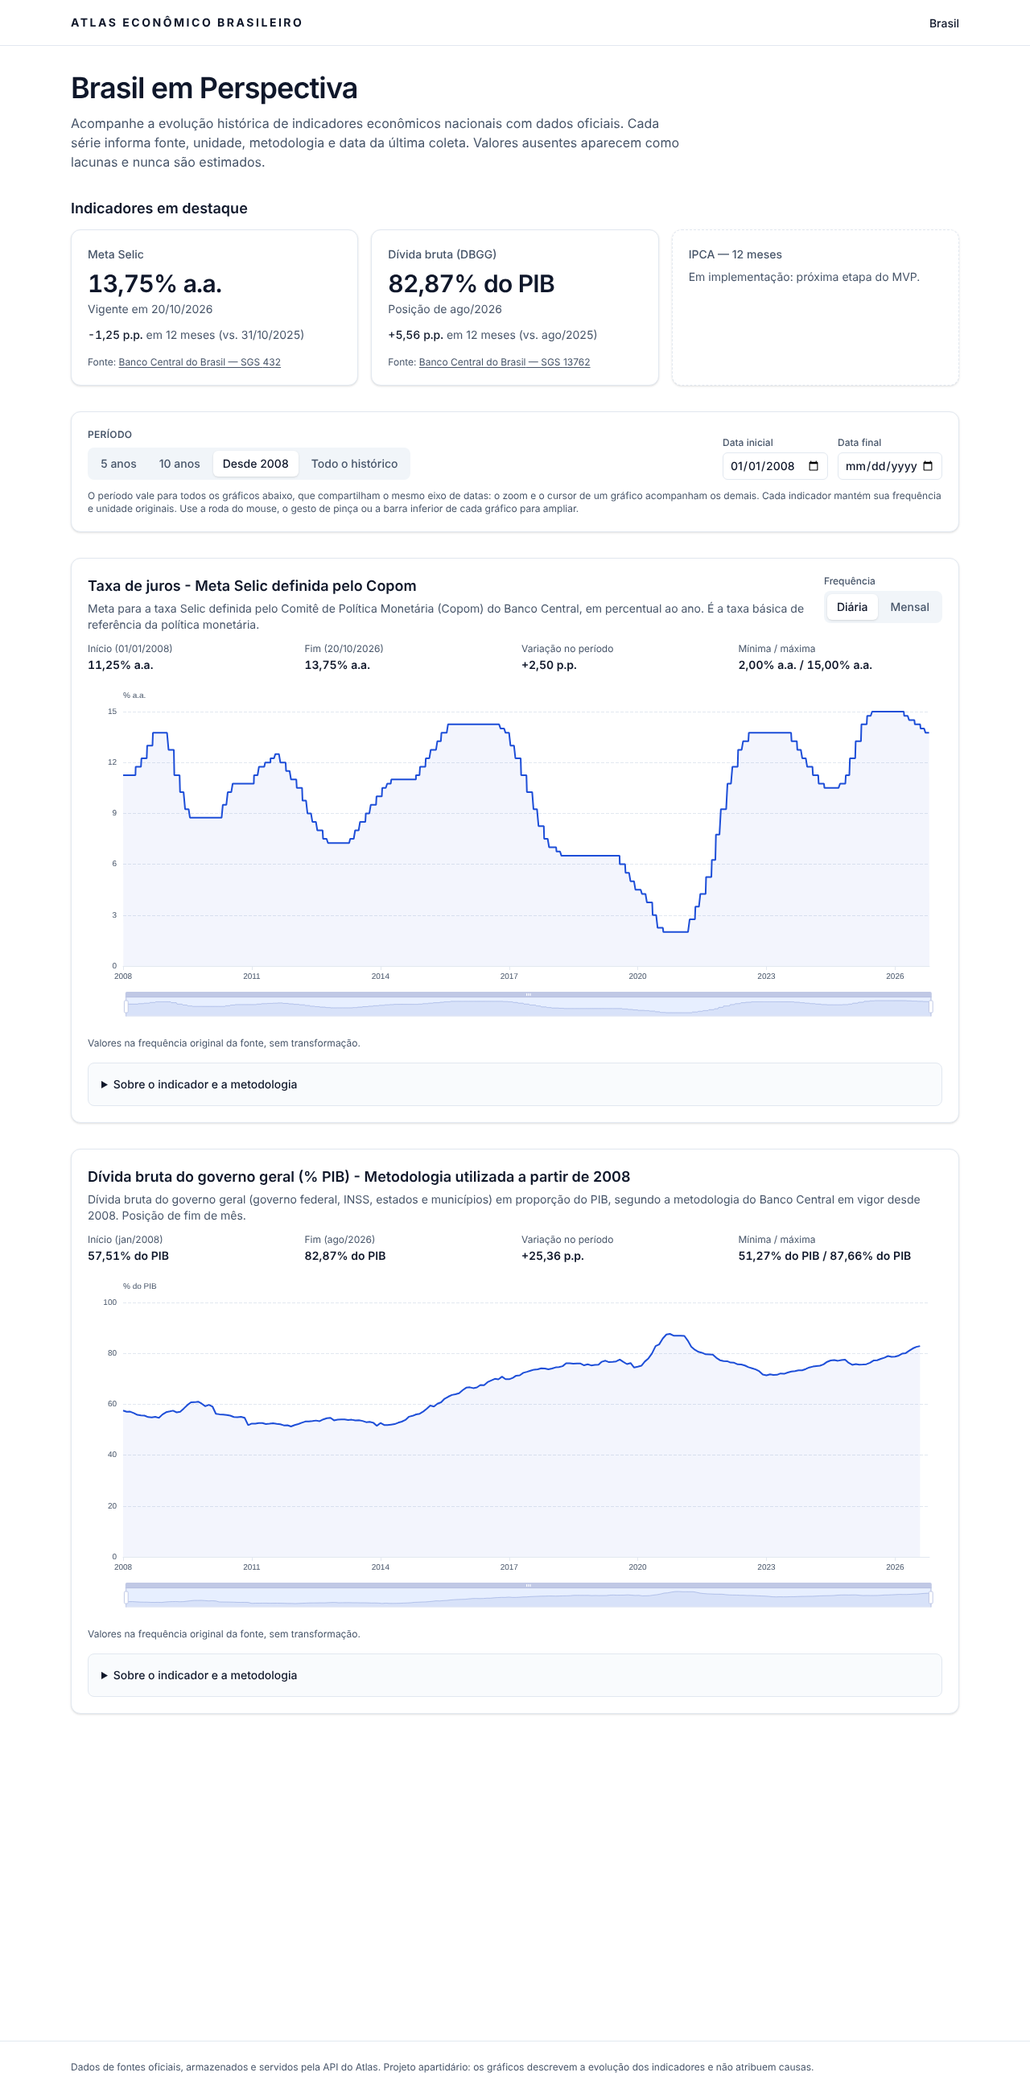
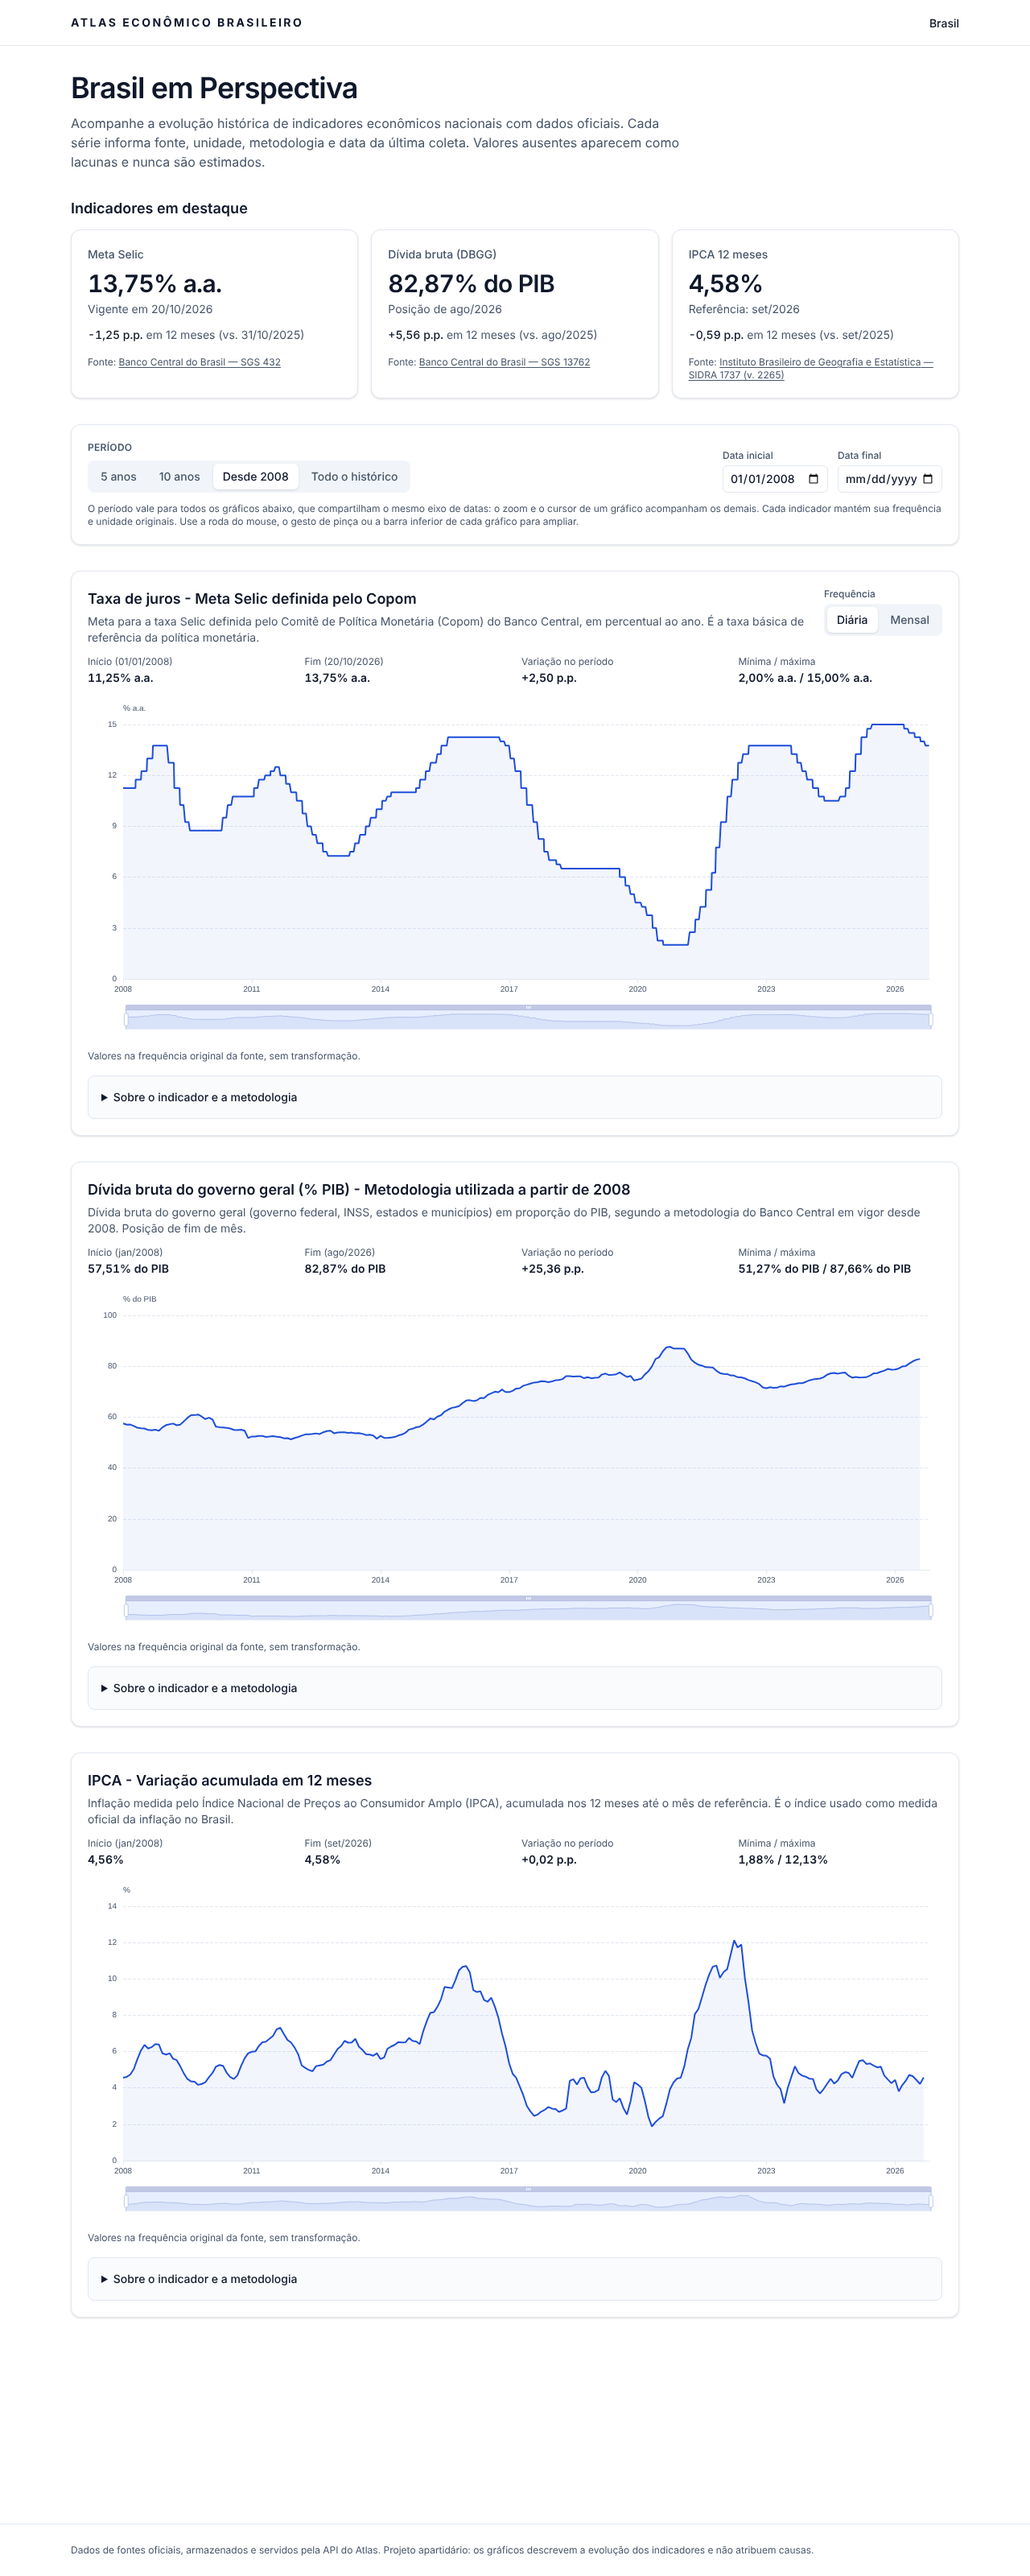
fix: address QA findings for IPCA 12-month delivery
- Real SIDRA fixture (missing rows carry an empty unit code) with parsing test
- Validate SIDRA header (codes, Brasil, monthly), territory and duplicate missing months
- Own IBGE rate-limit setting; source-neutral period_end messages
- Methodology panel uses the same series label as the card; y-axis extends below zero only
  for negative values
- Accurate description of the independent check; README, screenshots, roadmap, STATE, RUN_LOG

Refs #4

diff --git a/apps/web/src/features/dashboard/MethodologyPanel.tsx b/apps/web/src/features/dashboard/MethodologyPanel.tsx
@@ -1,6 +1,8 @@
 import { formatDate, formatDateTime } from "@/lib/format";
 import type { ObservationsResponse } from "@/types/api";
 
+import { sourceSeriesLabel } from "./summary";
+
 const FREQUENCY_LABEL: Record<string, string> = {
   daily: "Diária",
   monthly: "Mensal",
@@ -32,8 +34,8 @@ export function MethodologyPanel({ response }: { response: ObservationsResponse 
         <dd>{indicator.methodology}</dd>
         <dt className="text-muted-foreground">Fonte</dt>
         <dd>
-          {indicator.source.organization} — {indicator.source.name}, série{" "}
-          {indicator.source_series_code}.{" "}
+          {indicator.source.organization} — {indicator.source.name},{" "}
+          {sourceSeriesLabel(indicator)}.{" "}
           <a
             href={indicator.source_url}
             target="_blank"

diff --git a/apps/web/src/features/dashboard/chart-option.ts b/apps/web/src/features/dashboard/chart-option.ts
@@ -115,7 +115,8 @@ export function buildTimeSeriesOption({
       name: unit,
       nameTextStyle: { color: palette.muted, align: "left" },
       scale: false,
-      min: 0,
+      // Zero baseline for rates; extends below zero only if the series has negative values.
+      min: (extent: { min: number }) => Math.min(0, extent.min),
       axisLabel: { color: palette.muted, formatter: (v: number) => formatNumber(v, 0) },
       splitLine: { lineStyle: { color: palette.grid, type: "dashed" } },
     },

diff --git a/apps/web/src/features/dashboard/chart-option.test.ts b/apps/web/src/features/dashboard/chart-option.test.ts
@@ -22,7 +22,8 @@ describe("buildTimeSeriesOption", () => {
 
   it("plots values as a step series on a time axis starting at zero", () => {
     expect(option.xAxis.type).toBe("time");
-    expect(option.yAxis.min).toBe(0);
+    expect(option.yAxis.min({ min: 2, max: 15 })).toBe(0);
+    expect(option.yAxis.min({ min: -1.5, max: 4 })).toBe(-1.5);
     expect(option.yAxis.name).toBe("% a.a.");
     expect(option.series[0].step).toBe("end");
     expect(option.series[0].data).toEqual([

diff --git a/apps/web/src/features/dashboard/IndicatorHighlight.tsx b/apps/web/src/features/dashboard/IndicatorHighlight.tsx
@@ -23,11 +23,13 @@ export function IndicatorHighlight({ config }: { config: DashboardIndicator }) {
   );
 
   if (latest.data) {
-    return <IndicatorCard
+    return (
+      <IndicatorCard
         indicator={latest.data.indicator}
         latest={summary}
         referencePrefix={config.referencePrefix}
-      />;
+      />
+    );
   }
   // Same accessible name as the loaded card, so the region is identifiable in every state.
   const headingId = `card-${config.code}`;

diff --git a/services/api/app/integrations/ibge/sidra.py b/services/api/app/integrations/ibge/sidra.py
@@ -87,26 +87,38 @@ def parse_sidra_payload(
     if not isinstance(payload, list) or not payload:
         raise SIDRAPayloadError("Expected a non-empty JSON array")
     header, rows = payload[0], payload[1:]
-    if not isinstance(header, dict) or header.get("V") != "Valor":
+    # Codes format, national level, monthly periods: anything else (e.g. a quarterly table
+    # whose AAAA0N codes look like months) is rejected.
+    if (
+        not isinstance(header, dict)
+        or header.get("V") != "Valor"
+        or header.get("D3C") != "Mês (Código)"
+        or header.get("D1C") != "Brasil (Código)"
+    ):
         raise SIDRAPayloadError(f"Unexpected header row: {header!r}")
     points: dict[date, SGSPoint] = {}
+    seen: set[date] = set()
     skipped = 0
     for index, item in enumerate(rows, start=1):
         if not isinstance(item, dict) or not {"V", "D2C", "D3C", "MC"} <= item.keys():
             raise SIDRAPayloadError(f"Unexpected item at position {index}: {item!r}")
         if item["D2C"] != variable:
             raise SIDRAPayloadError(f"Variable {item['D2C']!r} returned, expected {variable!r}")
+        if item.get("D1C") != "1":
+            raise SIDRAPayloadError(f"Territory {item.get('D1C')!r} returned, expected Brasil (1)")
         reference_date = parse_sidra_month(item["D3C"])
+        if reference_date in seen:
+            raise SIDRAPayloadError(f"Duplicate month in payload: {item['D3C']}")
+        seen.add(reference_date)
         value = parse_sidra_value(item["V"])
         if value is None:
+            # Missing rows come with an empty unit code ("MC": ""), so this check comes first.
             skipped += 1
             continue
         if item["MC"] != unit_code:
             raise SIDRAPayloadError(
                 f"Unit code {item['MC']!r} for {item['D3C']}, expected {unit_code!r}"
             )
-        if reference_date in points:
-            raise SIDRAPayloadError(f"Duplicate month in payload: {item['D3C']}")
         points[reference_date] = SGSPoint(reference_date, value)
     return sorted(points.values(), key=lambda p: p.reference_date), skipped
 
@@ -151,7 +163,7 @@ class SIDRAClient:
         self._client.close()
 
     def _throttle(self) -> None:
-        interval = self.settings.bcb_min_request_interval_seconds
+        interval = self.settings.ibge_min_request_interval_seconds
         if self._last_request_at is not None and interval > 0:
             elapsed = time.monotonic() - self._last_request_at
             if elapsed < interval:

diff --git a/services/api/tests/test_sidra.py b/services/api/tests/test_sidra.py
@@ -26,6 +26,7 @@ from app.integrations.ibge.sidra import (
     split_series_code,
 )
 from app.models import Observation, ObservationRevision
+from tests.conftest import load_fixture
 
 HEADER = {
     "NC": "Nível Territorial (Código)",
@@ -74,6 +75,19 @@ def test_parse_value() -> None:
             parse_sidra_value(bad)
 
 
+def test_real_fixture() -> None:
+    """Real SIDRA excerpt (see tests/fixtures/README.md): missing rows carry an empty unit."""
+    payload = json.loads(load_fixture("sidra_1737_2265_sample.json"))
+    assert [r["MC"] for r in payload[1:3]] == ["", ""]
+    points, skipped = parse_sidra_payload(payload, variable="2265", unit_code="2")
+    assert skipped == 2
+    assert [(p.reference_date, p.value) for p in points] == [
+        (date(1980, 12, 1), Decimal("99.25")),
+        (date(2026, 8, 1), Decimal("4.22")),
+        (date(2026, 9, 1), Decimal("4.58")),
+    ]
+
+
 def test_payload_skips_missing_and_sorts() -> None:
     payload = [HEADER, row("202002", "3.2"), row("198012", "..."), row("202001", "3.1")]
     points, skipped = parse_sidra_payload(payload, variable="2265", unit_code="2")
@@ -94,6 +108,9 @@ def test_payload_skips_missing_and_sorts() -> None:
         [HEADER, row("202001", "1"), row("202001", "2")],  # duplicate month
         [HEADER, row("202001", "1", variable="63")],  # wrong variable
         [HEADER, row("202001", "1", unit="30")],  # wrong unit (index number)
+        [HEADER, row("202001", "..."), row("202001", "...")],  # duplicate missing month
+        [{**HEADER, "D3C": "Trimestre (Código)"}, row("202001", "1")],  # not monthly
+        [HEADER, {**row("202001", "1"), "D1C": "35"}],  # not Brasil
     ],
 )
 def test_payload_rejects_invalid(payload) -> None:

diff --git a/services/api/migrations/versions/0005_seed_ipca_12m.py b/services/api/migrations/versions/0005_seed_ipca_12m.py
@@ -63,10 +63,11 @@ def upgrade() -> None:
                 "meses), Brasil. Cada observação é a variação do índice de preços entre o mês "
                 "de referência e o mesmo mês do ano anterior, ou seja, o produto das 12 "
                 "variações mensais até o mês de referência. A data da observação é o mês de "
-                "referência; a janela de 12 meses começa, portanto, até 11 meses antes do "
-                "início de qualquer período filtrado. Não é a variação mensal nem a "
-                "acumulada no ano. Para os meses anteriores a dezembro de 1980 o IBGE não "
-                "divulga o acumulado em 12 meses ('...'); eles aparecem como lacunas. "
+                "referência, e a janela de acumulação começa 11 meses antes dele: num período "
+                "filtrado, o primeiro valor inclui preços de meses anteriores ao início "
+                "escolhido. Não é a variação mensal nem a acumulada no ano. A série começa em "
+                "dezembro de 1980, primeiro mês com 12 meses de histórico; antes disso o IBGE "
+                "não divulga o acumulado em 12 meses ('...'). "
                 "Variações entre dois meses são expressas em pontos percentuais (p.p.)."
             ),
         },

diff --git a/services/api/app/ingestion/series_ingestion.py b/services/api/app/ingestion/series_ingestion.py
@@ -246,18 +246,18 @@ def ingest_indicator(
 
 
 def period_end(reference_date: date, frequency: Frequency) -> date:
-    """Last day of the period an SGS observation refers to.
+    """Last day of the period an observation refers to.
 
-    SGS dates daily values by the day itself and monthly values by the 1st of the month.
+    Both SGS and SIDRA date daily values by the day itself and monthly values by the 1st.
     """
     if frequency == Frequency.DAILY:
         return reference_date
     if frequency == Frequency.MONTHLY:
         if reference_date.day != 1:
-            raise IngestionError(f"Monthly SGS date not on the 1st: {reference_date}")
+            raise IngestionError(f"Monthly date not on the 1st: {reference_date}")
         last_day = calendar.monthrange(reference_date.year, reference_date.month)[1]
         return reference_date.replace(day=last_day)
-    raise IngestionError(f"Unsupported frequency for SGS ingestion: {frequency}")
+    raise IngestionError(f"Unsupported frequency for ingestion: {frequency}")
 
 
 def _upsert(

diff --git a/services/api/app/core/config.py b/services/api/app/core/config.py
@@ -29,6 +29,7 @@ class Settings(BaseSettings):
     bcb_daily_window_years: int = Field(default=1, ge=1, le=10)
     # Minimum interval between two requests to the same source (seconds).
     bcb_min_request_interval_seconds: float = 0.5
+    ibge_min_request_interval_seconds: float = 0.5
 
 
 @lru_cache

diff --git a/services/api/tests/conftest.py b/services/api/tests/conftest.py
@@ -37,6 +37,7 @@ def settings() -> Settings:
         http_max_retries=3,
         http_backoff_base_seconds=0.01,
         bcb_min_request_interval_seconds=0,
+        ibge_min_request_interval_seconds=0,
         bcb_daily_window_years=10,
     )
 

diff --git a/docs/autonomy/STATE.md b/docs/autonomy/STATE.md
@@ -8,11 +8,11 @@
 | Atualizado em | 2026-10-21 |
 | Fase atual | 1 — MVP nacional |
 | Última entrega | M1 — Robustez (issue #3), PR #28: parâmetros desconhecidos e repetidos (422), filtro pelo fim do período de referência + índice, presets alinhados ao mês, estados de carregamento consistentes |
-| Próxima entrega elegível | **M2 — IPCA 12 meses ([#4](https://github.com/mrquintao/Atlas-Economico-Dev/issues/4))** |
-| Issue ativa | nenhuma até o início da M2 |
-| Branch | novo branch a partir da `main` atualizada após o merge do PR #28 |
+| Próxima entrega elegível | **M3 — `GET /api/v1/dashboard/national` ([#5](https://github.com/mrquintao/Atlas-Economico-Dev/issues/5))**, após o merge da M2 |
+| Issue ativa | M2 ([#4](https://github.com/mrquintao/Atlas-Economico-Dev/issues/4)): PR aberto a partir de `claude/admiring-knuth-q0bg78`; conferir o estado do PR antes de qualquer trabalho |
+| Branch | `claude/admiring-knuth-q0bg78` (M2) |
 | Último commit integrado na `main` | merge do PR #28 (conferir com `git log origin/main -1`) |
-| Última validação | `scripts/check.sh` num clone limpo: 113 pytest (PostgreSQL) e 46 vitest; lint, format, `alembic check`, typecheck e build; navegador com dados reais (cursor 118/118, console limpo); qa-auditor: pronto para PR |
+| Última validação | M2: `scripts/check.sh` (144 pytest com PostgreSQL, 51 vitest, lint, format, `alembic check`, typecheck, build); coleta real do IPCA (550 meses, idempotente) conferida 100% contra o SIDRA; navegador desktop e mobile com dados reais, console limpo; qa-auditor sem críticos, achados importantes corrigidos |
 
 ## Bloqueios
 
@@ -29,16 +29,22 @@
 
 ## Próxima ação recomendada
 
-Iniciar a M2 (#4): (1) testar o acesso ao SIDRA (`apisidra.ibge.gov.br`) pelo proxy; (2) `economist` valida a
-tabela 1737, a variável do acumulado em 12 meses e as amostras; (3) conector `integrations/ibge/sidra.py`
-e despacho da ingestão por fonte; (4) seed `IPCA_12M` com `period_*` = mês de referência e janela de 12
-meses como metadado (comentário na #4); (5) cartão e terceiro gráfico sincronizado.
+1. Se o PR da M2 ainda estiver aberto: conferir a CI do último commit e fazer o merge pelo gate da
+   AGENT_POLICY §3; depois fechar a #4 e marcar a M2 como ✅ no roadmap.
+2. Iniciar a M3 (#5): endpoint `GET /api/v1/dashboard/national` com o resumo dos três indicadores.
+
+Achados menores da auditoria da M2 deixados para depois (registrados no PR): resposta vazia do SIDRA conta
+como sucesso, igual ao SGS (avaliar alerta na M4, monitoramento); lacunas de vários meses recebem uma
+única quebra no gráfico (o cursor cai no ponto real mais próximo); "Todo o histórico" começa em 1980 por
+causa do IPCA.
 
 ## Ambiente de desenvolvimento (lembrete para sessões em nuvem)
 
 - PostgreSQL 16 local: `/usr/lib/postgresql/16/bin`, dados em `/tmp/pgdata` (sobrevive a reinícios;
   após um reboot: `su postgres -c "/usr/lib/postgresql/16/bin/pg_ctl -D /tmp/pgdata -l /tmp/pgdata/log -o '-p 5432 -k /tmp' start"`).
-  Bancos: `atlas` (dados reais, **não destruir**; migrado até 0004), `atlas_test` e `atlas_ci` (descartáveis).
+  Bancos: `atlas` (dados reais, **não destruir**; migrado até 0005), `atlas_test` e `atlas_ci` (descartáveis).
 - Validação local: `TEST_DATABASE_URL=postgresql+psycopg://atlas:atlas@localhost:5432/atlas_ci scripts/check.sh`.
 - Sem Docker local: os Dockerfiles são validados pelo job `Docker Compose` do CI.
-- Proxy de saída: a API do BCB responde; o SIDRA deve ser testado no início da M2.
+- Proxy de saída: as APIs do BCB e do SIDRA (`apisidra.ibge.gov.br`) respondem.
+- Se `/tmp/pgdata` não existir (sessão nova), inicializar com `initdb -A trust` como `postgres`, criar o
+  papel `atlas` e os bancos.

diff --git a/README.md b/README.md
@@ -5,9 +5,10 @@ do Brasil, construída **exclusivamente com dados oficiais** (Banco Central, IBG
 SICONFI) e com rastreabilidade completa: cada número exibido informa fonte, série, unidade,
 metodologia e data da última coleta.
 
-> **Estado atual (iteração 2):** dados oficiais da **meta Selic (SGS 432)** e da **dívida bruta do
-> governo geral / PIB (SGS 13762)**, com gráficos sincronizados no mesmo período, eixo de datas, zoom
-> e cursor. IPCA 12 meses é a próxima etapa; a expansão estadual vem na fase 2.
+> **Estado atual (iteração 3):** dados oficiais da **meta Selic (BCB SGS 432)**, da **dívida bruta do
+> governo geral / PIB (BCB SGS 13762)** e do **IPCA acumulado em 12 meses (IBGE SIDRA 1737, variável
+> 2265)**, com três gráficos sincronizados no mesmo período, eixo de datas, zoom e cursor. A expansão
+> estadual vem na fase 2.
 
 ![Dashboard](docs/screenshots/desktop.png)
 
@@ -59,6 +60,7 @@ cp .env.example .env                       # configure as credenciais de desenvo
 docker compose up --build -d               # db + api (aplica migrações ao iniciar) + web
 docker compose exec api python -m app.ingestion.cli ingest SELIC_TARGET --full   # coleta inicial (~1–2 min)
 docker compose exec api python -m app.ingestion.cli ingest DBGG_GDP               # série mensal (segundos)
+docker compose exec api python -m app.ingestion.cli ingest IPCA_12M               # IBGE/SIDRA (segundos)
 ```
 
 - Frontend: http://localhost:3000
@@ -84,9 +86,10 @@ psql -U postgres -c "CREATE DATABASE atlas_test OWNER atlas;"   # apenas para te
 cd services/api
 cp ../../.env.example .env                 # DATABASE_URL etc.
 uv sync                                    # cria .venv com Python 3.12 e dependências
-uv run alembic upgrade head                # migrações + seed (BCB, Brasil, SELIC_TARGET, DBGG_GDP)
+uv run alembic upgrade head                # migrações + seed (BCB, IBGE, Brasil, SELIC_TARGET, DBGG_GDP, IPCA_12M)
 uv run python -m app.ingestion.cli ingest SELIC_TARGET --full   # coleta inicial do histórico completo
 uv run python -m app.ingestion.cli ingest DBGG_GDP               # dívida bruta/PIB (série mensal)
+uv run python -m app.ingestion.cli ingest IPCA_12M               # IPCA 12 meses (IBGE/SIDRA)
 uv run uvicorn app.main:app --reload --port 8000
 ```
 
@@ -96,6 +99,7 @@ são recoletadas inteiras (revisões do PIB podem alterar anos anteriores):
 ```bash
 uv run python -m app.ingestion.cli ingest SELIC_TARGET
 uv run python -m app.ingestion.cli ingest DBGG_GDP
+uv run python -m app.ingestion.cli ingest IPCA_12M
 # ou, para agendar via cron (todos os indicadores):  scripts/ingest.sh
 ```
 
@@ -141,7 +145,7 @@ unitários rodam. Nenhum teste acessa a internet. O CI (GitHub Actions) roda tud
 | Fonte | Uso | Links |
 |---|---|---|
 | Banco Central do Brasil — SGS | Meta Selic (432) · DBGG/PIB (13762) | [Dados abertos](https://dadosabertos.bcb.gov.br/) · [SGS 432](https://dadosabertos.bcb.gov.br/dataset/432-taxa-de-juros---meta-selic-definida-pelo-copom) · [SGS 13762](https://dadosabertos.bcb.gov.br/dataset/13762-divida-bruta-do-governo-geral--pib---metodologia-utilizada-a-partir-de-2008) |
-| IBGE — SIDRA | Próximo: IPCA 12 meses (tabela 1737) | [API SIDRA](https://apisidra.ibge.gov.br/) · [Serviço de dados](https://servicodados.ibge.gov.br/api/docs/) |
+| IBGE — SIDRA | Implementado: IPCA 12 meses (tabela 1737, variável 2265) | [API SIDRA](https://apisidra.ibge.gov.br/) · [Serviço de dados](https://servicodados.ibge.gov.br/api/docs/) |
 | Tesouro Nacional / SICONFI | Fase 2 (estados) | [Tesouro Transparente](https://www.tesourotransparente.gov.br/) · [SICONFI API](https://apidatalake.tesouro.gov.br/docs/siconfi/) |
 
 ## Princípios
